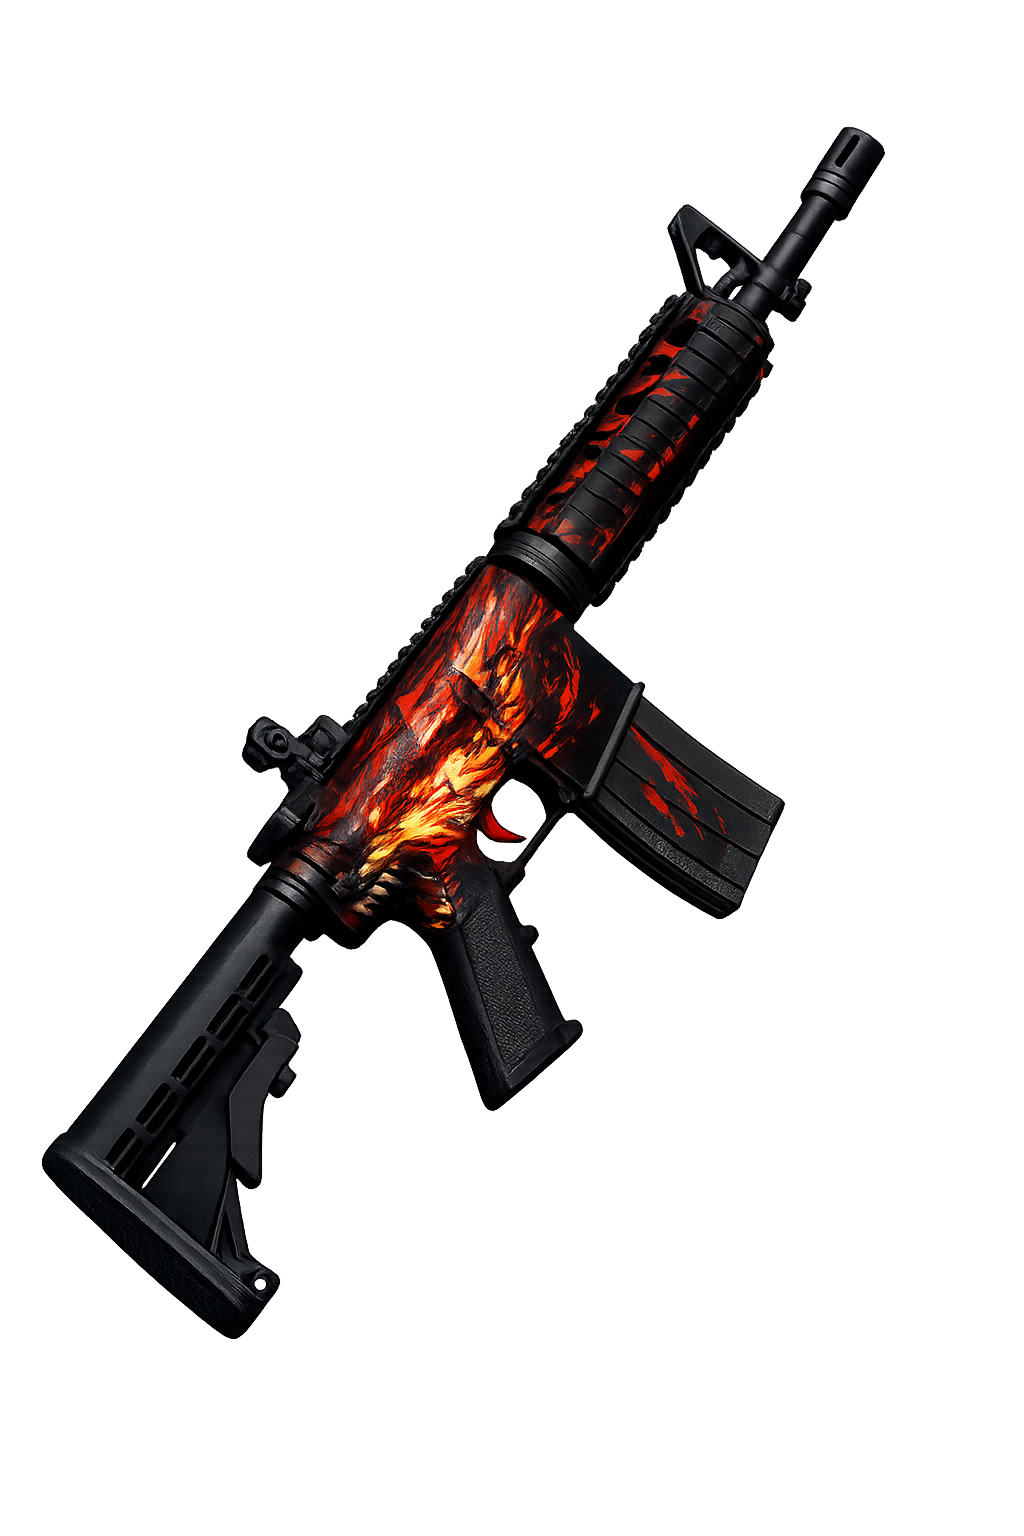
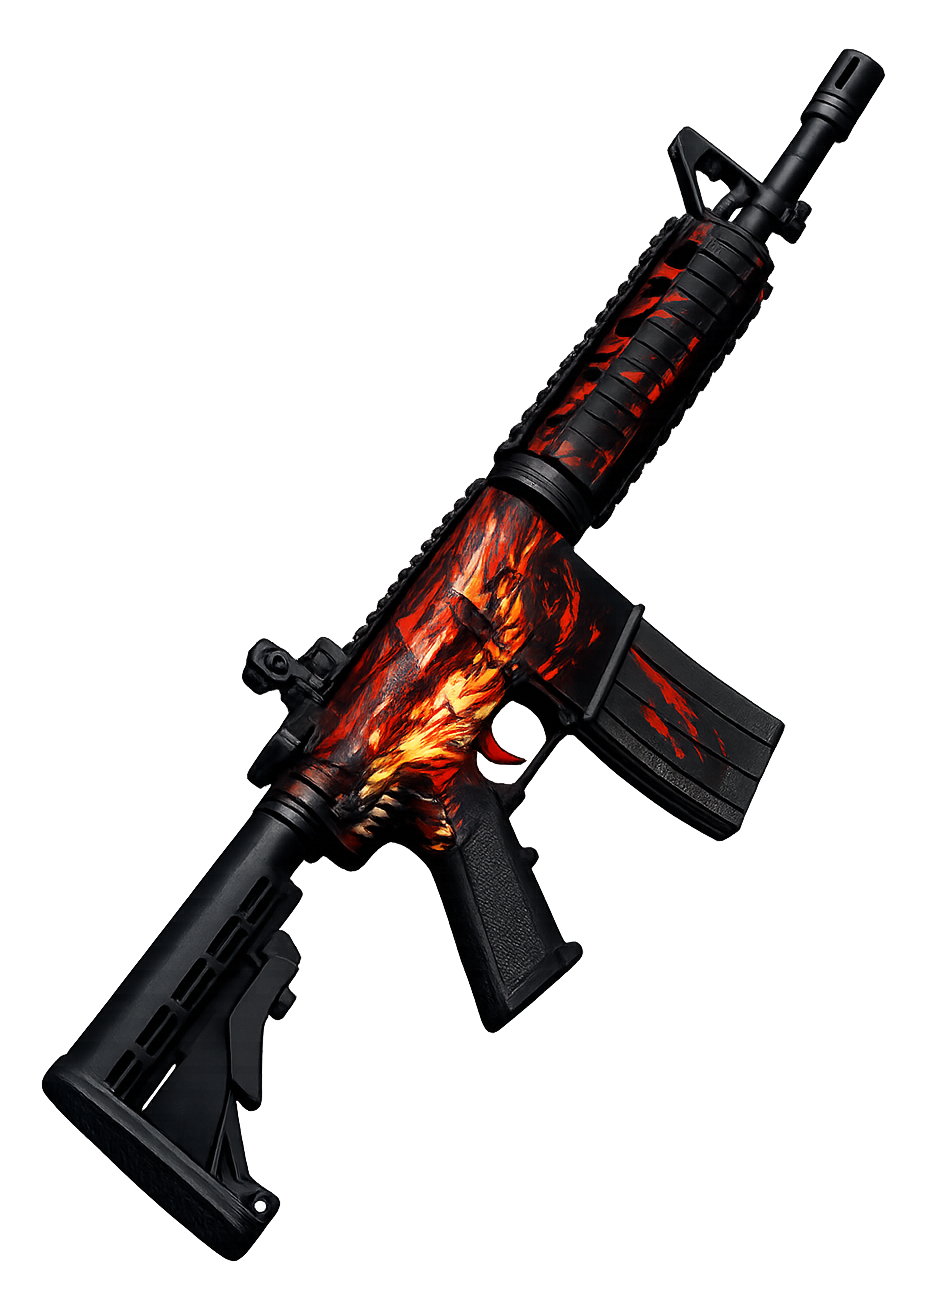
skins: full uncropped side weapons on vault/leaderboard/portfolio/stats; swap sides; don't rebase spliced/csl history

Changed region(s): [[0.0311, 0.0306, 0.9646, 0.9786]]

diff --git a/components/SkinSides.tsx b/components/SkinSides.tsx
@@ -1,17 +1,23 @@
 "use client"
 
 /* Decorative skins in the empty side gutters on wide screens. Cosmetic only:
-   pointer-events off, hidden below xl. Each rail clips its skin and fades all
-   four edges so nothing shows a hard cut, and the skin is sized to sit fully
-   inside the rail (no overflow past the viewport). */
+   pointer-events off, hidden below xl, sit BEHIND page content (z-0).
+
+   Two modes:
+   - full (default): transparent PNG shown WHOLE, anchored to the outer screen
+     edge and extending inward. No edge-feather, no overflow clip — the weapon is
+     never cut off (barrel tip / stock stay in frame even if it reaches the text).
+   - clip: legacy feather-masked look (kept for anything that still wants it). */
 export default function SkinSides({
   left,
   right,
-  opacity = 0.15,
-  leftRotate = -28,
-  rightRotate = 28,
-  size = 520,
-  fade = true,
+  opacity = 0.9,
+  leftRotate = -6,
+  rightRotate = 6,
+  size = 320,
+  inset = 30,
+  fade = false,
+  clip = false,
 }: {
   left: string
   right: string
@@ -19,49 +25,66 @@ export default function SkinSides({
   leftRotate?: number
   rightRotate?: number
   size?: number
+  inset?: number
   fade?: boolean
+  clip?: boolean
 }) {
-  // soft feather on all edges so the skin melts into the page (no visible border)
   const featherMask =
     "radial-gradient(ellipse 80% 82% at 50% 50%, #000 55%, transparent 92%)"
 
-  const rail = "hidden xl:block fixed top-16 bottom-0 w-[240px] 2xl:w-[300px] overflow-hidden z-0 pointer-events-none"
-  const img = "absolute left-1/2 top-1/2 max-w-none object-contain"
+  if (clip) {
+    const rail =
+      "hidden xl:block fixed top-16 bottom-0 w-[240px] 2xl:w-[300px] overflow-hidden z-0 pointer-events-none"
+    const img = "absolute left-1/2 top-1/2 max-w-none object-contain"
+    return (
+      <div aria-hidden className="select-none">
+        <div className={`${rail} left-0`}>
+          <img src={left} alt="" style={{ width: size, opacity, transform: `translate(-50%, -50%) rotate(${leftRotate}deg)`, WebkitMaskImage: featherMask, maskImage: featherMask }} className={img} />
+          {fade && <div className="absolute inset-0 bg-gradient-to-r from-transparent via-transparent to-[#faf9f6]" />}
+        </div>
+        <div className={`${rail} right-0`}>
+          <img src={right} alt="" style={{ width: size, opacity, transform: `translate(-50%, -50%) rotate(${rightRotate}deg)`, WebkitMaskImage: featherMask, maskImage: featherMask }} className={img} />
+          {fade && <div className="absolute inset-0 bg-gradient-to-l from-transparent via-transparent to-[#faf9f6]" />}
+        </div>
+      </div>
+    )
+  }
+
+  // full mode — whole weapon, anchored to the outer edge, nothing cropped
+  const rail =
+    "hidden xl:block fixed top-16 bottom-0 w-[320px] 2xl:w-[400px] overflow-visible z-0 pointer-events-none"
+  const img = "absolute top-1/2 max-w-none object-contain"
 
   return (
     <div aria-hidden className="select-none">
-      {/* left rail */}
+      {/* left rail — outer (left) edge hugs the screen, extends inward */}
       <div className={`${rail} left-0`}>
         <img
           src={left}
           alt=""
           style={{
+            left: inset,
             width: size,
             opacity,
-            transform: `translate(-50%, -50%) rotate(${leftRotate}deg)`,
-            WebkitMaskImage: featherMask,
-            maskImage: featherMask,
+            transform: `translateY(-50%) rotate(${leftRotate}deg)`,
           }}
           className={img}
         />
-        {fade && <div className="absolute inset-0 bg-gradient-to-r from-transparent via-transparent to-[#faf9f6]" />}
       </div>
 
-      {/* right rail */}
+      {/* right rail — outer (right) edge hugs the screen, extends inward */}
       <div className={`${rail} right-0`}>
         <img
           src={right}
           alt=""
           style={{
+            right: inset,
             width: size,
             opacity,
-            transform: `translate(-50%, -50%) rotate(${rightRotate}deg)`,
-            WebkitMaskImage: featherMask,
-            maskImage: featherMask,
+            transform: `translateY(-50%) rotate(${rightRotate}deg)`,
           }}
           className={img}
         />
-        {fade && <div className="absolute inset-0 bg-gradient-to-l from-transparent via-transparent to-[#faf9f6]" />}
       </div>
     </div>
   )

diff --git a/app/trade/page.tsx b/app/trade/page.tsx
@@ -302,17 +302,22 @@ export default function TradeTerminal() {
           if (res.ok) {
             const d = await res.json()
             if (!cancelled && d.real && d.candles?.length) {
-              // real daily history from Steam, rebased onto the live price
               let daily: Candle[] = d.candles
               const live = priceMap.current.get(selected) ?? endPrice
-              const tail = daily.slice(-20).map((c) => c.close).filter((n) => n > 0).sort((a, b) => a - b)
-              const anchor = tail.length ? tail[Math.floor(tail.length / 2)] : 0
-              if (anchor > 0 && live > 0) {
-                const f = live / anchor
-                daily = daily
-                  .map((c) => ({ time: c.time, open: r(c.open * f), high: r(c.high * f), low: r(c.low * f), close: r(c.close * f) }))
-                  .filter((c) => c.close <= live * 8 && c.close >= live / 8)
-                  .map((c) => ({ ...c, high: Math.min(c.high, live * 8), low: Math.max(c.low, live / 8) }))
+              // "spliced" / "csl" sources are already real dollar values for their
+              // own era (genuine pre-cap Steam segment + CSL's own tracked closes)
+              // — rebasing would corrupt the genuine old Steam prices, so we only
+              // rescale the legacy single-source "steam"/"steamwebapi" case.
+              if (d.source !== "spliced" && d.source !== "csl") {
+                const tail = daily.slice(-20).map((c) => c.close).filter((n) => n > 0).sort((a, b) => a - b)
+                const anchor = tail.length ? tail[Math.floor(tail.length / 2)] : 0
+                if (anchor > 0 && live > 0) {
+                  const f = live / anchor
+                  daily = daily
+                    .map((c) => ({ time: c.time, open: r(c.open * f), high: r(c.high * f), low: r(c.low * f), close: r(c.close * f) }))
+                    .filter((c) => c.close <= live * 8 && c.close >= live / 8)
+                    .map((c) => ({ ...c, high: Math.min(c.high, live * 8), low: Math.max(c.low, live / 8) }))
+                }
               }
               // last point == the live mark, exactly
               if (daily.length) {

diff --git a/app/stats/page.tsx b/app/stats/page.tsx
@@ -64,7 +64,7 @@ export default function Stats() {
   return (
     <div className="min-h-screen bg-[#faf9f6] text-[#0e1512]">
       <TNav active="stats" title="Stats" light />
-      <SkinSides left="/m4-fire-stats.png" right="/m4-neon-stats.png" opacity={1} size={400} leftRotate={12} rightRotate={-12} fade={false} />
+      <SkinSides left="/m4-fire-stats.png" right="/m4-neon-stats.png" size={400} inset={26} leftRotate={-5} rightRotate={5} opacity={1} />
       <main className="relative z-10 max-w-[1100px] mx-auto px-5 py-10">
         <div className="flex items-center gap-3 mb-8 flex-wrap">
           <h1 className="text-3xl font-bold tracking-[-0.02em]">Market stats</h1>

diff --git a/app/portfolio/page.tsx b/app/portfolio/page.tsx
@@ -61,7 +61,7 @@ export default function Portfolio() {
   return (
     <div className="min-h-screen bg-[#faf9f6] text-[#0e1512]">
       <TNav active="portfolio" light title="Portfolio" />
-      <SkinSides left="/awp-dragon-lore-portfolio.png" right="/awp-asiimov-portfolio.png" opacity={1} size={400} leftRotate={12} rightRotate={-12} fade={false} />
+      <SkinSides left="/awp-dragon-lore-portfolio.png" right="/awp-asiimov-portfolio.png" size={300} inset={30} leftRotate={-6} rightRotate={6} opacity={1} />
       <main className="relative z-10 max-w-[1100px] mx-auto px-5 py-10">
         <h1 className="text-3xl font-bold tracking-[-0.02em] mb-8">Your account</h1>
 

diff --git a/app/vault/page.tsx b/app/vault/page.tsx
@@ -15,7 +15,7 @@ export default function Vault() {
   return (
     <div className="min-h-screen bg-[#faf9f6] text-[#0e1512]">
       <TNav active="vault" light title="Vault" />
-      <SkinSides left="/cs2-awp-asiimov-skin.jpg" right="/cs2-awp-dragon-lore.png" />
+      <SkinSides left="/karambit-fade-side.png" right="/butterfly-blue-side.png" size={300} inset={30} leftRotate={-6} rightRotate={6} opacity={0.9} />
       <main className="relative z-10 max-w-[900px] mx-auto px-5 py-10">
         <div className="flex items-center gap-3 mb-2 flex-wrap">
           <h1 className="text-3xl font-bold tracking-[-0.02em]">CSL Liquidity Vault</h1>

diff --git a/app/leaderboard/page.tsx b/app/leaderboard/page.tsx
@@ -8,7 +8,7 @@ export default function Leaderboard() {
   return (
     <div className="min-h-screen bg-[#faf9f6] text-[#0e1512]">
       <TNav active="leaderboard" light title="Leaderboard" />
-      <SkinSides left="/cs2-ak-47-vulcan-skin.jpg" right="/cs2-awp-lightning-strike.jpg" />
+      <SkinSides left="/ak47-redline-side.png" right="/ak47-serpent-side.png" size={430} inset={24} leftRotate={-3} rightRotate={3} opacity={0.85} />
 
       <main className="relative z-10 max-w-[900px] mx-auto px-5 py-14">
         <h1 className="text-3xl font-bold tracking-[-0.02em] mb-2">Top traders</h1>
